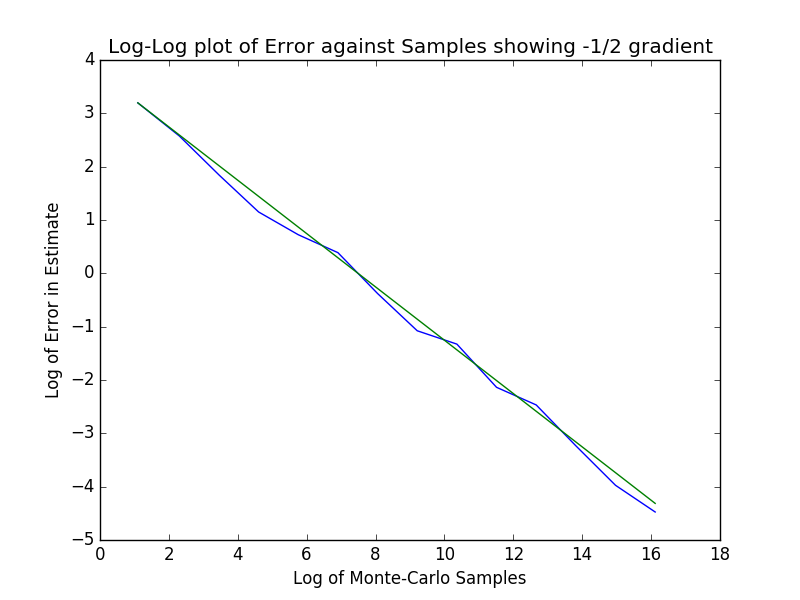
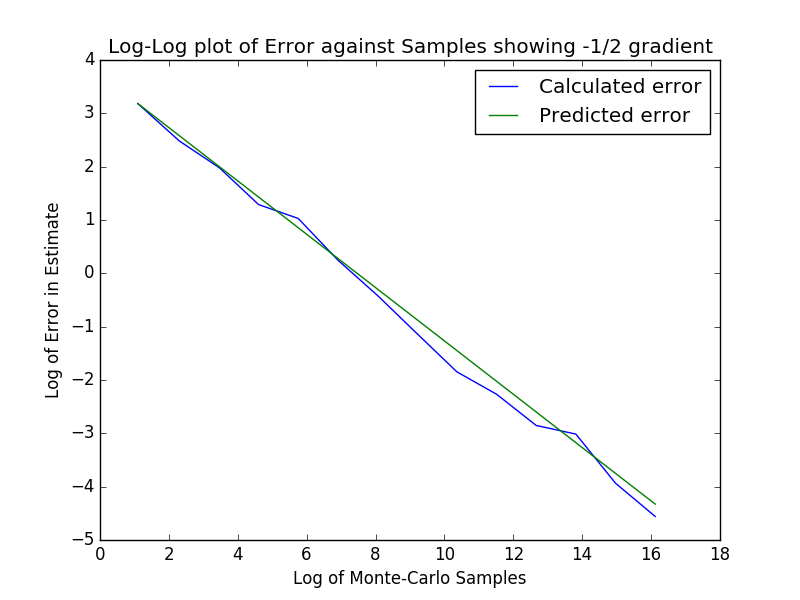
Finalise core exercise, add plot script, readme and images.
Comment where appropriate. Remove debug code. General cleaning.
Add plot script to generate png files from samples.dat, the file
produced by multi_value.py.

diff --git a/integration/plot.py b/integration/plot.py
@@ -1,0 +1,55 @@
+# External Packages
+import matplotlib.pyplot as plt
+import numpy as np
+
+
+def load():
+    samples = []
+    values = []
+    errors = []
+    with open('samples.dat', 'r') as f:
+        lines = list(f)
+    f.close()
+    for line in lines[1:]:
+        line = line.split('\t')
+        samples.append(int(line[0]))
+        values.append(float(line[1]))
+        errors.append(float(line[2]))
+
+    return samples, values, errors
+
+
+def value_plot(samples, values, errors):
+    plt.figure()
+    plt.plot(samples, values, label='Calculated')
+    plt.plot(samples, [537.1873 for i in range(len(samples))],
+             label='True Value')
+    plt.errorbar(samples, values, yerr=errors)
+    plt.xlabel('Number of Monte-Carlo Samples')
+    plt.xscale('log')
+    plt.ylabel('Integral Estimate')
+    plt.title('Estimated Value against Number of Monte-Carlo Samples')
+    plt.legend()
+    plt.savefig("values.png")
+
+
+def error_plot(samples, errors):
+    constant = errors[0]/(np.power(samples[0], -1/2))
+    samples = np.log(samples)
+    errors = np.log(errors)
+    plt.figure()
+    plt.plot(samples, errors, label='Calculated error')
+    plt.plot(samples, np.log(constant) + samples*-1/2, label='Predicted error')
+    plt.xlabel('Log of Monte-Carlo Samples')
+    plt.ylabel('Log of Error in Estimate')
+    plt.title('Log-Log plot of Error against Samples showing -1/2 gradient')
+    plt.legend()
+    plt.savefig('errors.png')
+
+
+def main():
+    samples, values, errors = load()
+    value_plot(samples, values, errors)
+    error_plot(samples, errors)
+
+main()

diff --git a/integration/integration.py b/integration/integration.py
@@ -13,27 +13,27 @@ def gen_random_variables(count, rmin, rmax):
     variables = []
     for i in range(count):
         variables.append(np.random.uniform(rmin, rmax))
-        # test_range(rmin, rmax, value)
     return variables
 
 
 def run_monte_carlo(samples, function, func_coeff, func_vars):
+    # Master monte-carlo function, runs the main sample loop.
     value = 0
     for i in range(samples):
-        if i % 10000 == 0:
-            print(i)  # Status Output
         value += function(func_vars)
     return value*func_coeff
 
 
 def sin_monte_element(rmax):
+    # Calculate the integrand for a single loop
     value = gen_random_variables(8, 0, rmax)
     result = sin_theta_sum(value)
     return result
 
 
 def run_single(samples):
-    rmax = np.pi/8
+    # Function configured to run the particular integral required
+    rmax = np.pi/8  # Solely works on same limit intengrals
     volume = np.power(rmax, 8)
     func_coeff = 1000000
     func_vars = rmax

diff --git a/integration/multi_value.py b/integration/multi_value.py
@@ -12,11 +12,10 @@ def main():
     f.close()
     for i in range(steps):
         samples = int(np.rint(np.power(10, (i+1)/2)))
-        print(samples)
-        #value, error = step(samples)
-        #with open('samples.dat', 'a') as f:
-        #    f.write('%s\t%s\t%s\n' % (samples, value, error))
-        #f.close()
+        value, error = step(samples)
+        with open('samples.dat', 'a') as f:
+            f.write('%s\t%s\t%s\n' % (samples, value, error))
+        f.close()
 
 
 def step(samples):

diff --git a/integration/single_value.py b/integration/single_value.py
@@ -7,7 +7,7 @@ import numpy as np
 
 def main():
     iterations = 25
-    samples = 1000000
+    samples = 10000000
     values = [integration.run_single(samples) for i in range(iterations)]
     print(np.average(values))
     print(np.std(values))
